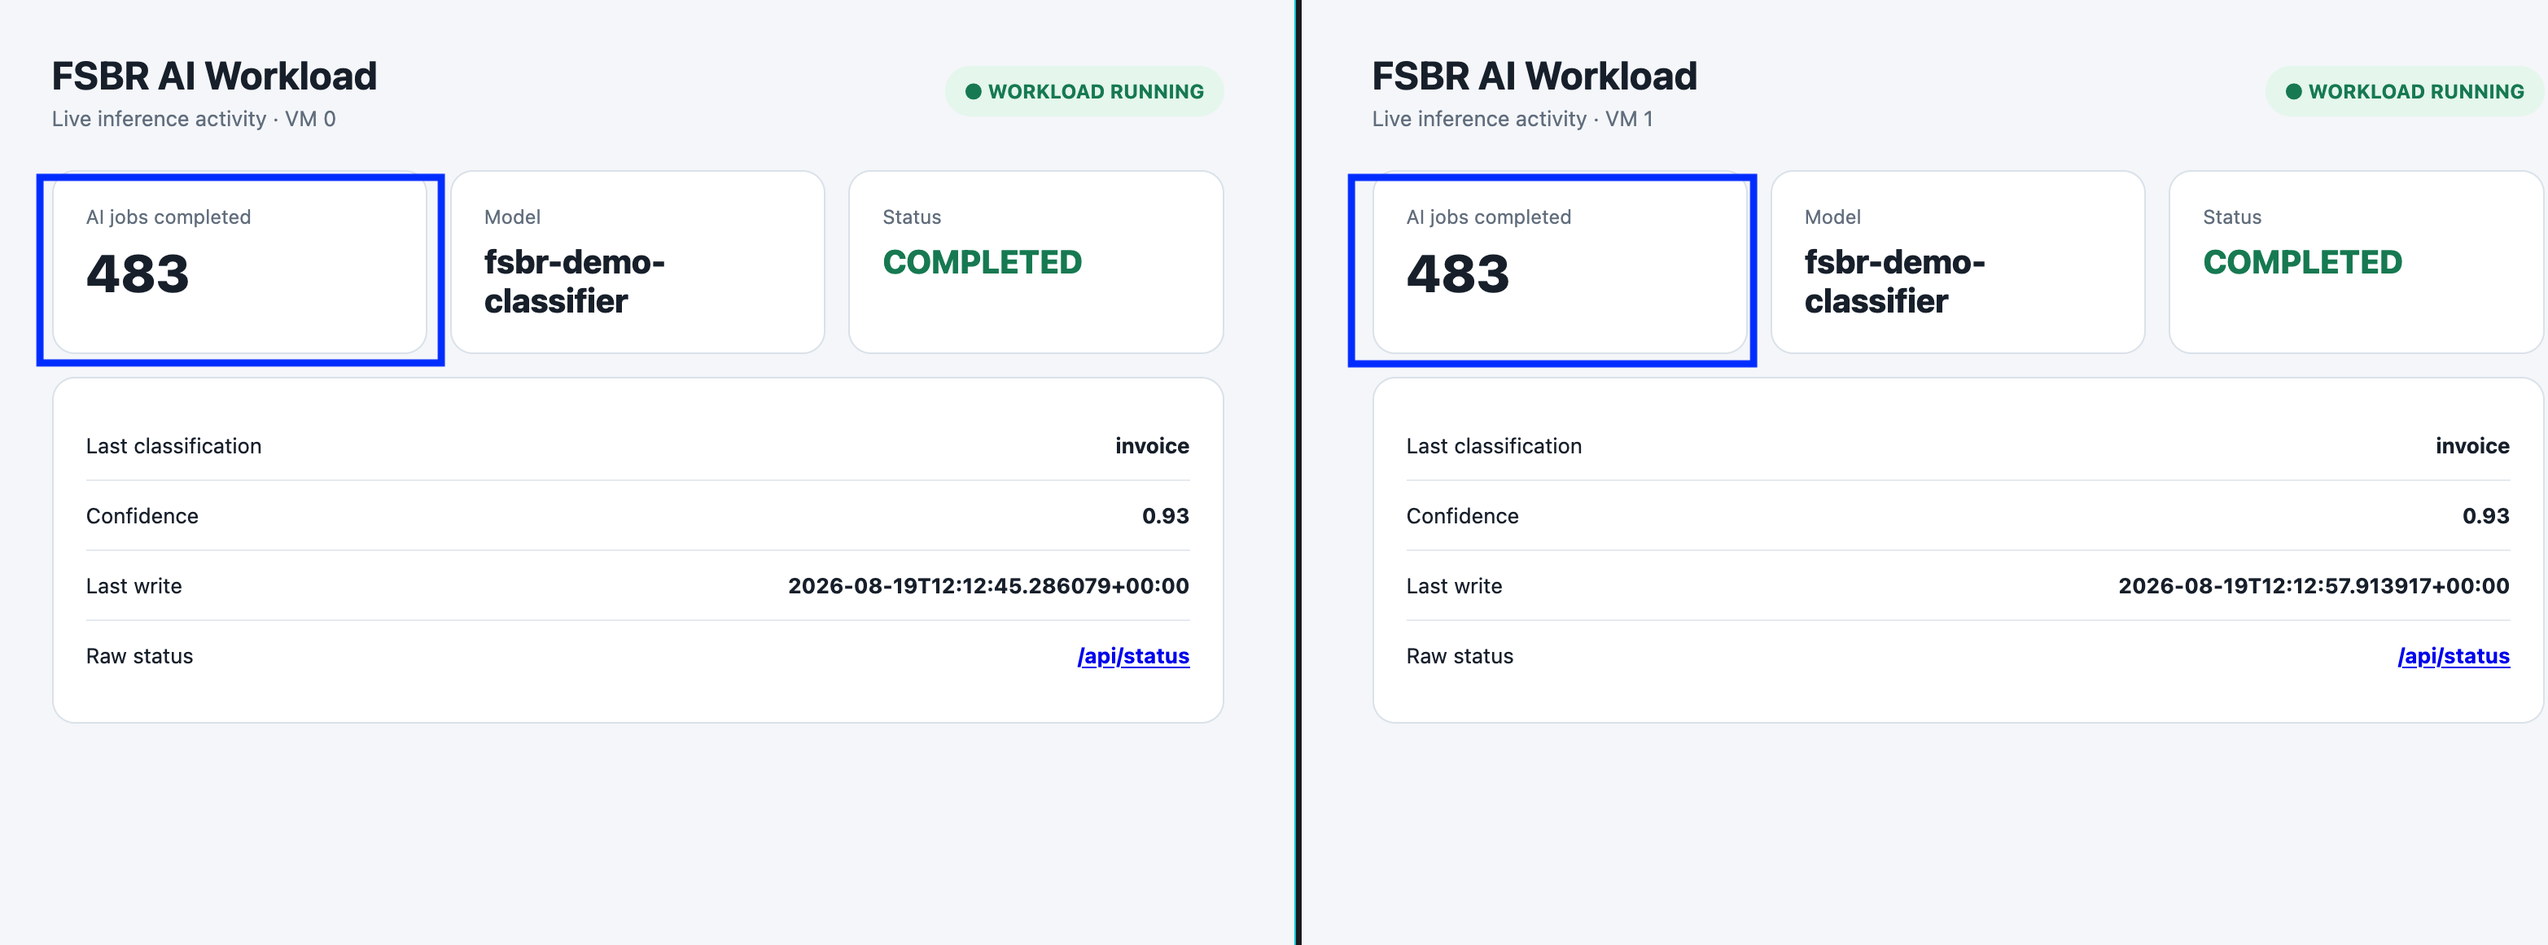
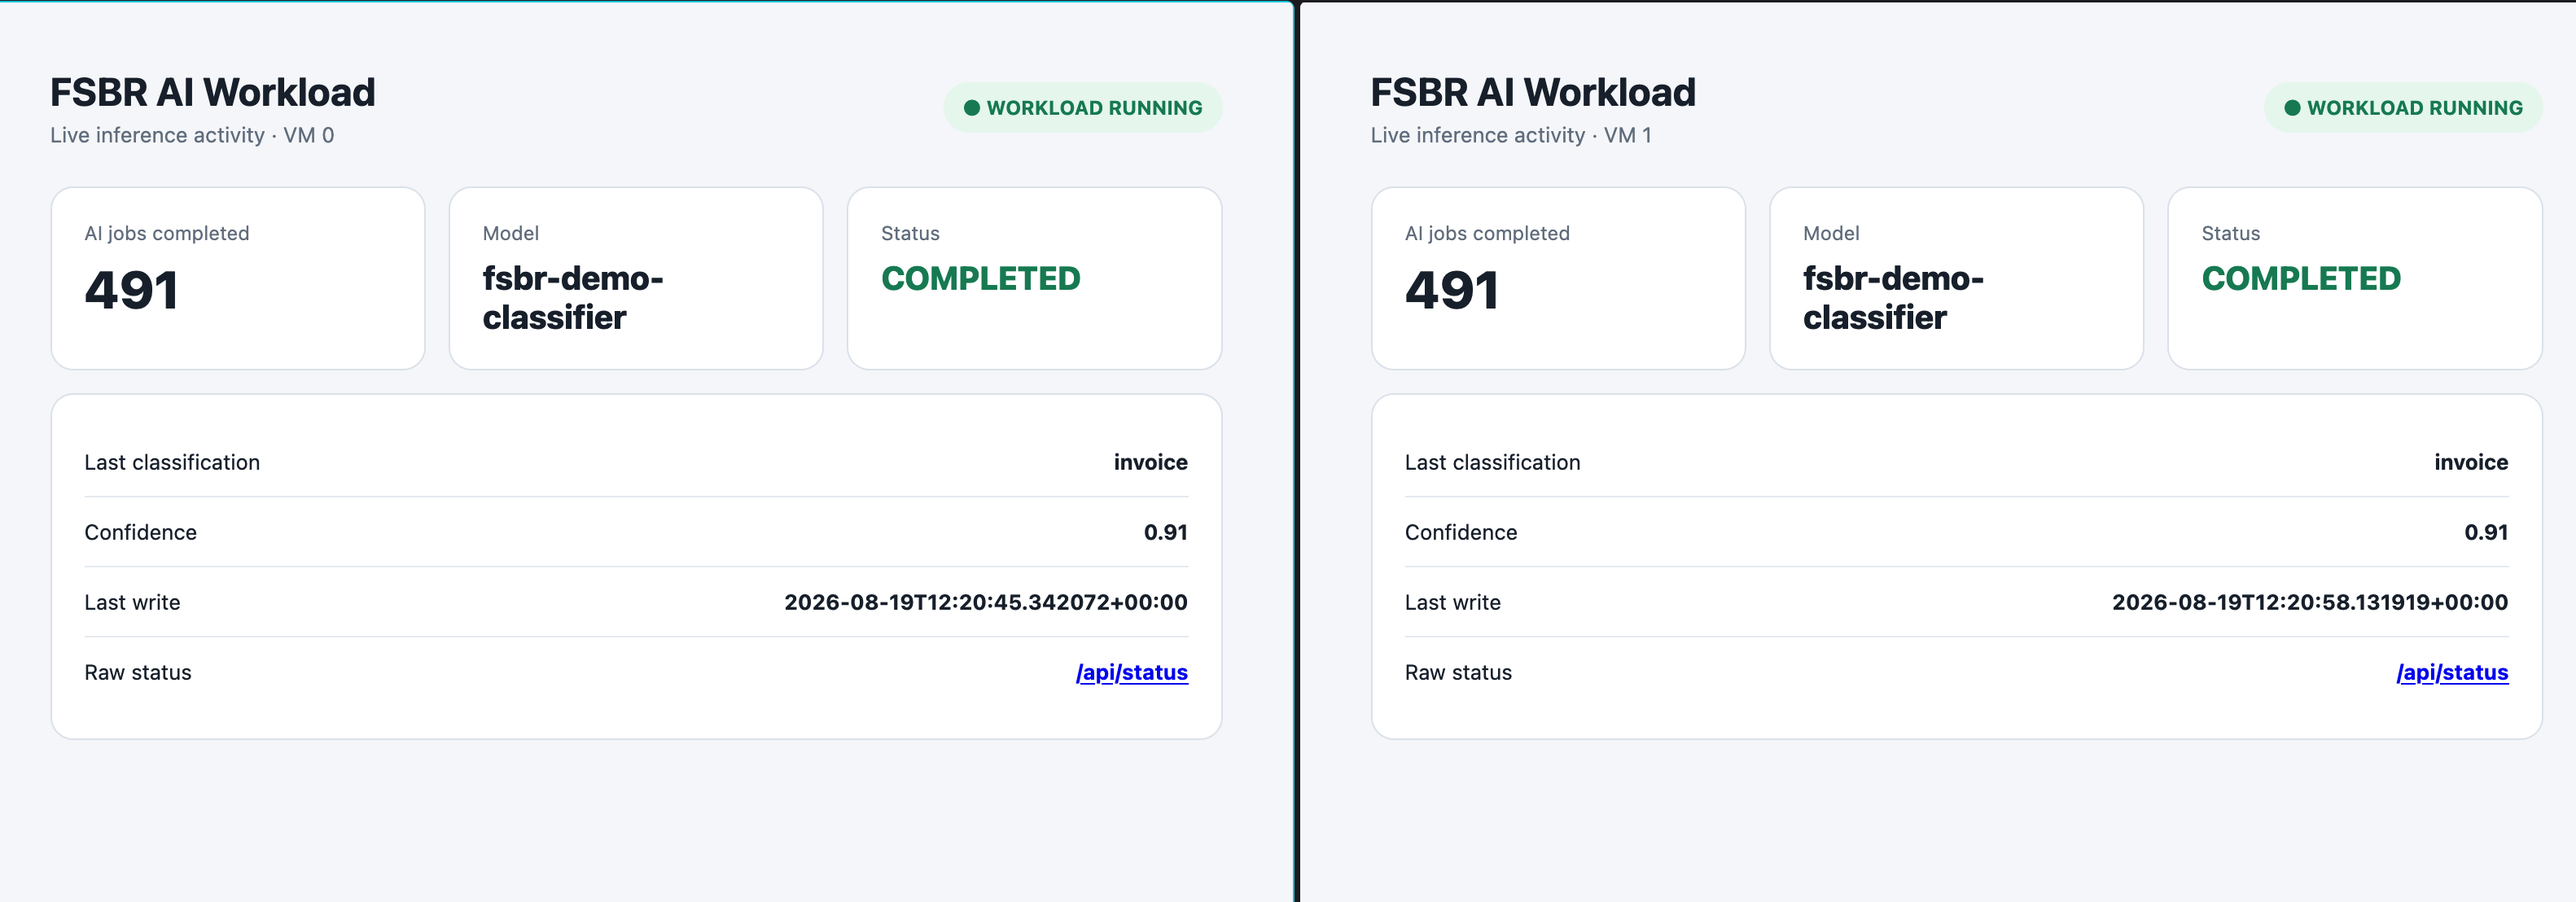
Update
Update

diff --git a/oci-fullstack-recovery/oci-fullstack-oke/configure-backup-recovery/configure-backup-recovery.md b/oci-fullstack-recovery/oci-fullstack-oke/configure-backup-recovery/configure-backup-recovery.md
@@ -126,23 +126,55 @@ In this lab, you will:
 
     ![Confirm execution of the default backup plan](./images/full-stack-br-execute-backup-confirmation.png)
 
-5. Open the execution details and monitor each plan group. Review task status, logs, warnings, and failures as the execution progresses.
+5. Open the **Plan executions** tab, select **First backup**, and monitor the plan execution groups. The prechecks run first, followed by the volume-group and compute-instance backup groups.
 
-6. Wait for the execution to complete successfully. Record the Full Stack BR point identifier or execution identifier. Then return to the two workload tabs and record the updated **AI jobs completed** value from VM 0 and VM 1. Compare the values with the pre-backup baseline.
+    ![First backup execution in progress](./images/full-stack-br-backup-in-progress.png)
+
+6. Wait a few minutes for the execution to complete successfully. Confirm that **First backup** shows **Succeeded**.
+
+    ![First backup execution succeeded](./images/full-stack-br-backup-succeeded.png)
+
+7. Open the **Member backups** tab for the Full Stack BR protection group. Confirm that backups are available for both compute instances and both individual volume groups.
+
+    ![Available Full Stack BR member backups](./images/full-stack-br-member-backups.png)
+
+8. Return to the two workload tabs and record the updated **AI jobs completed** value from VM 0 and VM 1. Compare the values with the pre-backup baseline.
 
     ![Synthetic AI workload counters after the backup](./images/synthetic-ai-workload-post-backup.png)
 
-## Task 5: Create and Review a Full Stack BR Point
+## Task 5: Create a Recovery Point and Run the Recovery Plan
 
-1. Open the **Catalog** or **Full Stack BR Points** tab for the protection group.
+1. Open the **Recovery catalog** tab for the Full Stack BR protection group. Confirm that the catalog is active and that the **Create recovery point** button is available.
 
-2. Review the available member backups. Confirm that the catalog lists backups for both compute instances and both volume groups.
+    ![Recovery catalog for the Full Stack BR protection group](./images/full-stack-br-recovery-catalog-empty.png)
 
-3. Select the Full Stack BR point created by the completed Task 4 backup execution. Confirm its creation time, protected members, and status.
+2. Select **Create recovery point**. Enter `First recovery point` as the name and description, leave the recovery point date and time disabled, keep **Completion mode** set to **Allow partial**, and select the object storage bucket and log location shown for your environment. Select **Create**.
 
-    A Full Stack BR point represents a consistent recovery point assembled from the protected member backups. Use a completed Full Stack BR point for recovery operations.
+    ![Create a Full Stack BR recovery point](./images/full-stack-br-create-recovery-point.png)
 
-4. Confirm that the protected members remain associated with the Full Stack BR protection group.
+3. Monitor the Recovery catalog until **First recovery point** is **Active**. Confirm that the recovery point is available and uses the member backups created in Task 4.
+
+    ![Active First recovery point](./images/full-stack-br-recovery-catalog-point.png)
+
+4. Before running the recovery plan, return to the two workload tabs and record the current **AI jobs completed** value from VM 0 and VM 1. Use these values as the pre-recovery baseline.
+
+    ![Synthetic AI workload counters before recovery](./images/synthetic-ai-workload-pre-recovery.png)
+
+5. In the Recovery catalog, select **First recovery point**. Confirm that its state is **Active**, then select **Actions** → **Recover now**.
+
+    ![Recover now from the First recovery point](./images/full-stack-br-recovery-point-recover-now.png)
+
+6. In the execution form, confirm that **default-recover-plan** is selected and that the recovery point is **First recovery point**. Leave prechecks enabled, enter a name such as `Recovery plan execution`, and select **Execute plan**.
+
+    ![Execute the recovery plan from the First recovery point](./images/full-stack-br-recovery-plan-execution.png)
+
+7. Open the **Plan executions** tab, select **Recovery plan execution**, and monitor the plan execution groups. Confirm that the prechecks, compute stop, volume-group restore, boot-volume replacement, compute start, and block-volume replacement groups progress to completion.
+
+    ![Monitor the recovery plan execution](./images/full-stack-br-recovery-execution-progress.png)
+
+8. Return to the two workload tabs and record the final **AI jobs completed** value from VM 0 and VM 1. Compare the final values with the pre-backup, post-backup, and pre-recovery values to observe workload continuity through the backup and recovery workflow.
+
+    ![Synthetic AI workload counters after recovery](./images/synthetic-ai-workload-after-recovery.png)
 
 ## Conclusion
 
